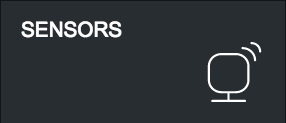
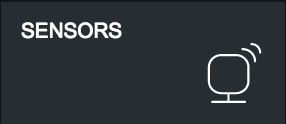
adding last minute changes before IQ2015

diff --git a/public/js/loudness.js b/public/js/loudness.js
@@ -1,19 +1,26 @@
 //Loudness Plot
-  // Global variables. yuck!
+// Global variables. yuck!
 var lsamps = [0, 1, 2, 3];
 var lcur = 0;
 var fftsamps = [];
-//  var socket = io.connect('http://localhost:8080');
-var socket = io.connect('http://mshosa-mba:8080');
+var socket = io.connect('http://localhost:8080');
+// var socket = io.connect('http://169.254.229.123:8080');
 var lseries = new TimeSeries();
 
-var loudchart = new SmoothieChart();
-loudchart.addTimeSeries(lseries, { strokeStyle: 'rgba(0, 255, 0, 1)', fillStyle: 'rgba(0, 255, 0, 0.2)', lineWidth: 4 });
-loudchart.streamTo(document.getElementById("smoothie-chart"), 500);
+var loudchart = new SmoothieChart({
+  maxValue:-10,
+  minValue:-40,
+  timestampFormatter:SmoothieChart.timeFormatter
+});
+loudchart.addTimeSeries(lseries, {
+  strokeStyle: 'rgba(0, 255, 0, 1)',
+  fillStyle: 'rgba(0, 255, 0, 0.2)',
+  lineWidth: 4
+});
+loudchart.streamTo(document.getElementById("smoothie-chart"), 0);
 
 // Recieve Loudness data
 socket.on('loudness', function(data){
-  console.log('received loudness data:', data);
   if(!data)
     return;
 
@@ -30,6 +37,8 @@ socket.on('loudness', function(data){
 socket.on('fft', function(data){
   if(!data)
     return;
+
+  //console.log(data);
 
   // Ex. data = {length: 1024, samples: [0.0, 1.3, ... , 45.0]};
   data = JSON.parse(data);
@@ -50,8 +59,8 @@ socket.on('fft', function(data){
     width: 1310,
     height: 500,
     animationEnabled: true,
-    axisX:{title: "Frequency (Hz)", interval: 3},
-    axisY:{title: "Magnitude (dB)"},
+    axisX:{title: "Frequency (Hz)", minimum:20, maximum:20000},//, interval: 3},
+    axisY:{title: "Magnitude (dB)", minimum:0, maximum:150},
     legend: {},
     data: [{
       name: 'fft1',
@@ -62,6 +71,8 @@ socket.on('fft', function(data){
     }]
   });
   //chart.options.data[0].dataPoints = points.data;
+  //chart.update();
+
   chart.render();
   $(".canvasjs-chart-credit").remove();
 });

diff --git a/public/js/smoothie.js b/public/js/smoothie.js
@@ -749,8 +749,8 @@
 
     // Draw the axis values on the chart.
     if (!chartOptions.labels.disabled && !isNaN(this.valueRange.min) && !isNaN(this.valueRange.max)) {
-      var maxValueString = chartOptions.yMaxFormatter(this.valueRange.max, chartOptions.labels.precision),
-          minValueString = chartOptions.yMinFormatter(this.valueRange.min, chartOptions.labels.precision),
+      var maxValueString = chartOptions.yMaxFormatter(this.valueRange.max, chartOptions.labels.precision) + ' LKFS',
+          minValueString = chartOptions.yMinFormatter(this.valueRange.min, chartOptions.labels.precision) + ' LKFS',
           labelPos = chartOptions.scrollBackwards ? 0 : dimensions.width - context.measureText(maxValueString).width - 2;
       context.fillStyle = chartOptions.labels.fillStyle;
       context.fillText(maxValueString, labelPos, chartOptions.labels.fontSize);

diff --git a/server.js b/server.js
@@ -24,23 +24,28 @@ app.get('/heatmap', function(req, res){
   res.render('heatmap.html', {});
 });
 
-// Socket.io Logic
+// ZMQ Setup
 var zmqsock = zmq.socket('pull');
+zmqsock.bind(rpi);
+console.log('zmq waiting on', rpi);
+
+// Socket.io Logic
 io.on('connection', function (socket) {
   console.log('socket.io connection made');
-  zmqsock.bind(rpi);
   zmqsock.on('message', function(msg){
+    //console.log('received msg', msg.toString());
     msg = msg.toString();
     var msgtype = msg.charAt(0);
     msg = msg.substr(1);
-    
+
     if(msgtype === 'l'){
       socket.emit('loudness', msg);
-      console.log('sending loudness msg');
+      return;
     }
-    else{
+    if(msgtype === 'f'){
       socket.emit('fft', msg);
-      console.log('sending fft msg');
+      //console.log('sending fft msg');
+      return;
     }
   });
 });

diff --git a/views/base.html b/views/base.html
@@ -48,7 +48,16 @@
     $(document).ready(function() {
       $('#main-content').fadeIn().removeClass('hidden');
       $('#grid').fadeIn().removeClass('hidden');
+      $(document).keypress(function() {
+      console.log('button pressed', event.which);
+      if (event.which == 13) {
+        console.log('esc pressed');
+        window.location = '/';
+      }
     });
+    });
+    </script>
+    <script>
     </script>
 {% block scripts %}
 {% endblock %}

diff --git a/views/index.html b/views/index.html
@@ -61,7 +61,8 @@
     </div>
     <div class="row"><!-- Sensors 1x1 -->
       <div class="col-md-12 text-center gridbox">
-        <img src="img/sensors.png" id="realtime"/>
+        <!-- <img src="img/sensors.png" id="realtime"/> -->
+        <img src="img/sensors-dolby.png" id="realtime"/>
       </div>
     </div>
     <div class="row"><!-- About 1x1 -->

diff --git a/public/css/style.css b/public/css/style.css
@@ -48,6 +48,7 @@ body {
 
 #fftplot {
     height:640px;
+    padding-left:300px;
 }
 
 .gridbox {
@@ -86,7 +87,7 @@ body {
 #map-canvas {
     margin-top: 60px;
     margin-left: 60px;
-    width: 1280px;
+    width: 1450px;
     height: 640px;
 /*    height: 480px;
     height: 100%;

diff --git a/views/heatmap.html b/views/heatmap.html
@@ -2,7 +2,7 @@
 
 {% block maincontent %}
 <div class="row">
-  <div class="col-md-12 text-center">
+  <div class="col-md-12 col-md-offset-1 text-center">
     <div id="map-canvas"></div>
   </div>
 </div>

diff --git a/audio/forward.py b/audio/forward.py
@@ -3,17 +3,18 @@ import zmq
 import pyaudio
 import json
 import numpy as np
-from math import ceil, log
+from math import log
 
 CHUNK = 1024
-PORT = 7777
+OUTPORT = 7777
+INPORT = 7776
 CHANNELS = 1
 RATE = 48000
 FORMAT = pyaudio.paFloat32
 
 
 class Loudness(object):
-    def __init__(self, windowlength=50, numBuffers=4):
+    def __init__(self, windowlength=10, numBuffers=4):
         self.numBuffers = numBuffers
         self.bufcount = 0
         self.buf = np.array([], dtype=np.float32)
@@ -22,12 +23,15 @@ class Loudness(object):
 
     def addSamples(self, samples):
         """samples is a string of bytes"""
-        self.buf = np.append(
-            self.buf,
-            np.fromstring(
-                samples,
-                dtype=np.float32))
-        self.bufcount += 1
+        try:
+            self.buf = np.append(
+                self.buf,
+                np.fromstring(
+                    samples,
+                    dtype=np.float32))
+            self.bufcount += 1
+        except:
+            pass
         if self.bufcount >= self.numBuffers:
             self.bufcount = 0
             rms = np.sqrt(np.mean(np.square(self.buf)))
@@ -52,8 +56,7 @@ class AudioBuffer(object):
         self.lcount = 0
         self.sock = zmqSocket
         self._loudDelay = loudDelay
-        next = lambda x: int(pow(2, ceil(log(x)/log(2))))
-        self._fftlength = next(fftlength * RATE)  # seconds
+        self._fftlength = 65536*2
 
     def addSamples(self, samples):
         lready = self.lqueue.addSamples(samples)
@@ -70,15 +73,20 @@ class AudioBuffer(object):
         Calculate the fft on the samples in the fft queue.
         Send ZMQ message.
         Clear fqueue."""
-        arr = np.fromstring(self.fqueue, dtype=np.float32)
-        fft = np.fft.fft(arr)[:len(arr)/2:50]
-        mag = map(abs, fft)
+        try:
+            arr = np.fromstring(self.fqueue, dtype=np.float32)
+            # Slice for improved performance [200:len(arr)/2:50]#[len(arr)/2:]
+            fft = np.fft.fft(arr)[len(arr)/2:]
+            f = lambda x: 100 + 20. * log(abs(x))
+            mag = map(f, fft)
 
-        self.sock.send('f' + json.dumps({
-            'nsamp': len(mag),
-            'samples': mag}))
-        self.fqueue = ""
-        self.fcount = 0
+            self.sock.send('f' + json.dumps({
+                'nsamp': len(mag),
+                'samples': mag}))
+            self.fqueue = ""
+            self.fcount = 0
+        except:
+            pass
 
     @property
     def loudDelay(self):
@@ -97,11 +105,13 @@ class AudioBuffer(object):
         self._fftlength = val
 
 
-def main(ip='tcp://127.0.0.1:7777'):
-    ctx = zmq.Context()
-    s = ctx.socket(zmq.PUSH)
-    s.connect(ip)
-    buffer = AudioBuffer(s)
+def main(ip="127.0.0.1"):
+    insock = zmq.Context().socket(zmq.PULL)
+    outsock = zmq.Context().socket(zmq.PUSH)
+
+    insock.bind('tcp://en2:7776')
+    outsock.connect('tcp://127.0.0.1:7777')
+    buffer = AudioBuffer(outsock)
 
     p = pyaudio.PyAudio()
 
@@ -109,15 +119,16 @@ def main(ip='tcp://127.0.0.1:7777'):
         format=FORMAT,
         channels=CHANNELS,
         rate=RATE,
-        input=True,
+        output=True,
         frames_per_buffer=CHUNK)
 
     while True:
-        buffer.addSamples(stream.read(CHUNK))
+        buffer.addSamples(insock.recv())
 
     stream.stop_stream()
     stream.close()
     p.terminate()
+
 
 if __name__ == "__main__":
     if len(sys.argv) > 1:

diff --git a/audio/fake_fft.py b/audio/fake_fft.py
@@ -7,7 +7,7 @@ from random import randint
 def main():
     ctx = zmq.Context()
     socket = ctx.socket(zmq.PUSH)
-    socket.bind("tcp://127.0.0.1:7777")
+    socket.connect("tcp://169.254.229.123:7777")
     while True:
         arr = [randint(0, 100) for i in xrange(1024)]
         l = len(arr)
